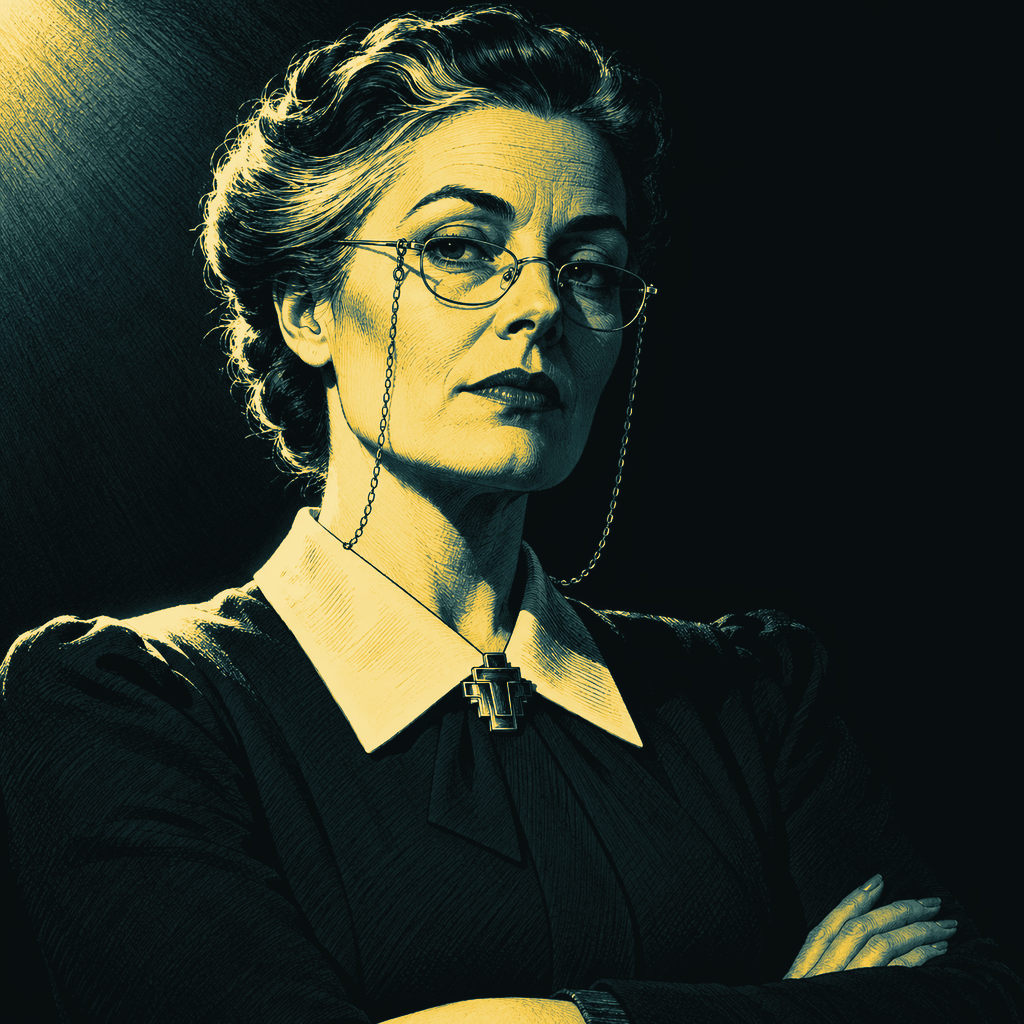
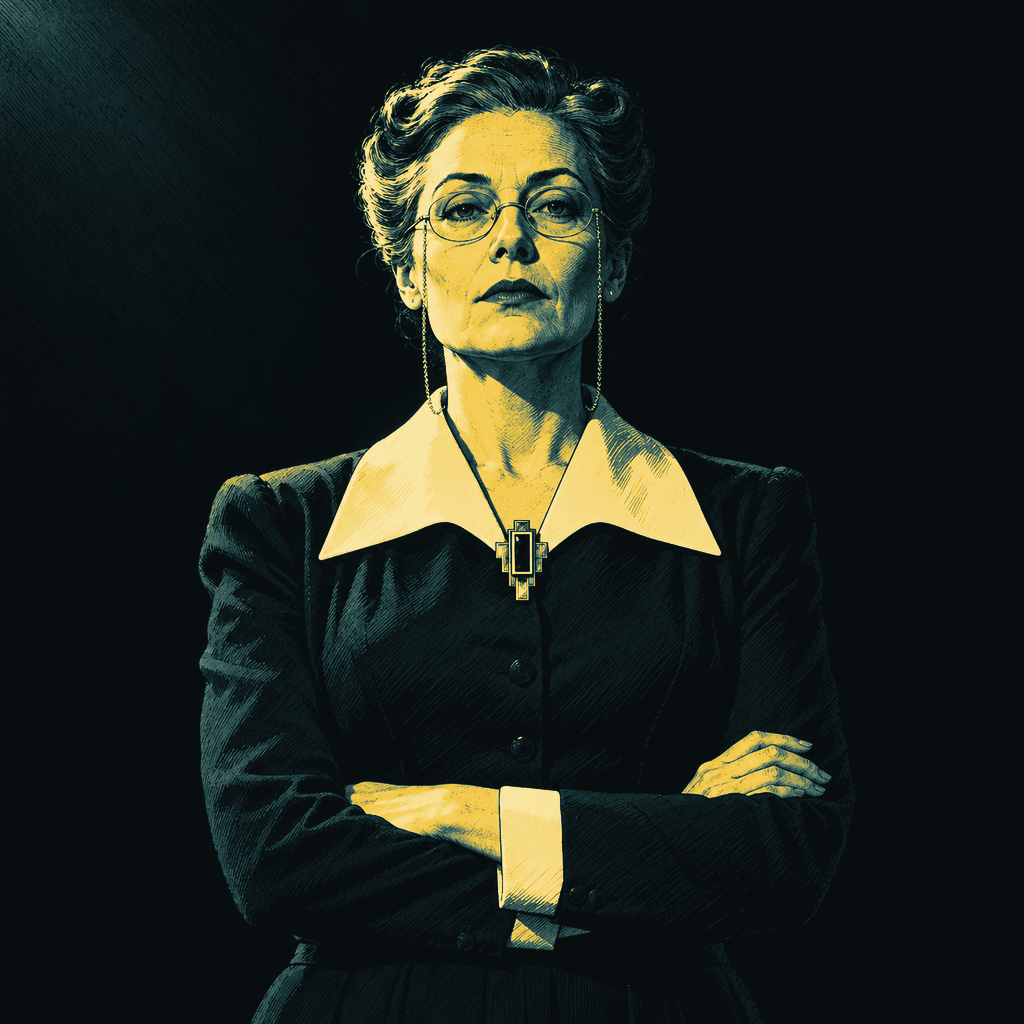
The Precinct: half-body portraits for Hattie, Tommy and Charlotte
Drawn from further back, like the first four, so a phone's narrow card
column shows the whole face.

diff --git a/the-precinct/theme.js b/the-precinct/theme.js
@@ -50,7 +50,7 @@ export default {
     {
       id: 'rookie', name: 'Patrolman Tommy Doyle', short: 'Tommy Doyle', role: 'The Rookie', tag: 'The one who saw',
       story: 'Three weeks on the job. He saw Frank Rourke do something on Vance’s orders and has told no one, because he doesn’t know who is safe to tell. He keeps crossing paths with Hattie Cole.',
-      look: 'a patrolman in his early twenties, fresh-faced and clean-shaven with freckles across his nose and cheeks, short fair hair, a dark peaked police cap with a plain shield badge, a dark uniform buttoned to the collar with a small star on each collar point, a wary sideways glance',
+      look: 'a patrolman in his early twenties, fresh-faced and clean-shaven with freckles across his nose and cheeks, short fair hair, a dark peaked police cap with a plain shield badge, a dark uniform buttoned to the collar with a small star on each collar point, a plain leather belt, a wary sideways glance',
       img: IMG + 'ref/tommy-card.jpg',
     },
     {
@@ -141,7 +141,7 @@ export default {
     'vera-card':     ['A woman with shoulder-length platinum-blonde waves, pearl earrings and a black evening gown, looking back over her shoulder with a knowing smile', 'character', 'femme'],
     'rourke-card':   ['A huge muscular man in shirtsleeves, braces and a loosened tie, teeth bared around a matchstick, glaring out of the dark', 'character', 'disillusioned'],
     'hattie-card':   ['A woman in a wide-brimmed black hat and a pale trench coat, glancing back over her shoulder, a notebook and pen in her gloved hands', 'character', 'reporter'],
-    'tommy-card':    ['A young freckled patrolman in a peaked cap and a dark uniform with a star on each collar point, glancing sideways by a lit wall', 'character', 'rookie'],
+    'tommy-card':    ['A young freckled patrolman in a peaked cap and a dark uniform with a star on each collar point, standing square and glancing sideways', 'character', 'rookie'],
     'charlotte-card':['A woman in her fifties with pinned-up hair and glasses on a chain, a dark dress with a white collar and a stepped brooch, arms folded', 'character', 'owner'],
     'ziggurat':      ['An empty Art Deco café at night: leather booths, a chrome counter with round stools, stepped glass lamps, a chevron floor and rain outside the windows', 'setting'],
     'rourke-front':  ['A huge muscular man in shirtsleeves and braces, a holster at his side and a jacket over his shoulder, scowling', 'character', 'disillusioned'],

diff --git a/the-precinct/home.css b/the-precinct/home.css
@@ -151,9 +151,8 @@
   .case{position:relative;display:flex;flex-direction:column;background:var(--paper-hi);border:1.5px solid var(--ink-p2)}
   .case img{width:100%;height:auto;aspect-ratio:1/1;object-fit:cover;object-position:50% 25%;border-bottom:1.5px solid var(--ink-p2);background:#0d1819}
   #cast-femme img{object-position:53% 30%}   /* her face is just right of centre: in a phone's narrow column this keeps it in view */
-  #cast-reporter img{object-position:58% 30%}   /* and hers is further right still, under the hat brim */
-  #cast-owner img{object-position:47% 25%}      /* hers is a touch left of centre */
-  #cast-rookie img{object-position:53% 25%}     /* his nose and both eyes sit just right of centre */
+  #cast-reporter img{object-position:54% 30%}   /* so is hers, under the hat brim */
+  #cast-rookie img{object-position:48% 25%}     /* his is a touch left of centre */
   .case .put{margin:10px 0 0;font-size:12px;color:var(--ink-p2)}
   .case-text{padding:12px 12px 14px;display:flex;flex-direction:column;flex:1}
   .case-tag{font-family:var(--label);letter-spacing:.14em;text-transform:uppercase;font-size:11px;color:var(--ink-p2)}
